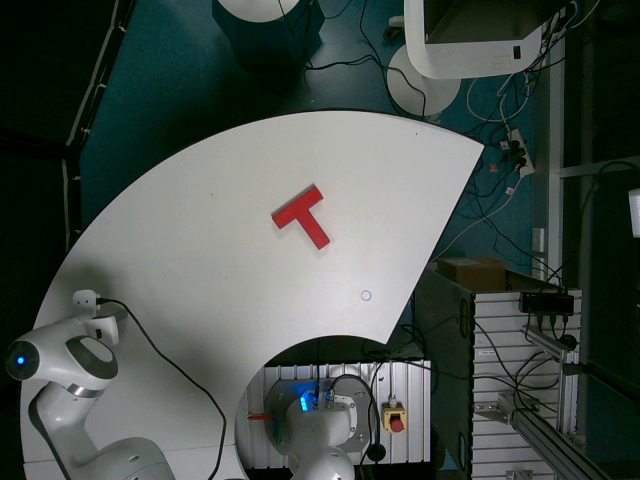
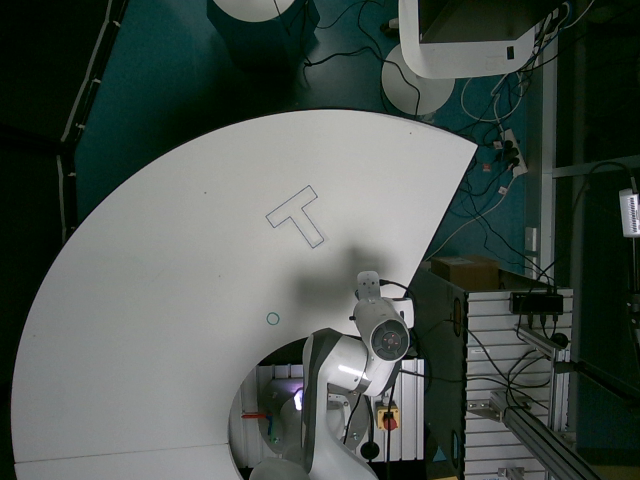
inference working

diff --git a/rs_imle_policy/inference.py b/rs_imle_policy/inference.py
@@ -80,7 +80,8 @@ class RobotInferenceController:
 
 
     def move_to_start(self):
-        self.robot.move(JointMotion([-1.9953644495495173, -0.07019201069593659, 0.051291523464672376, -2.4943418327817803, -0.042134962130810624, 2.385776886145273, 0.35092161391247345]))
+        # self.robot.move(JointMotion([-1.9953644495495173, -0.07019201069593659, 0.051291523464672376, -2.4943418327817803, -0.042134962130810624, 2.385776886145273, 0.35092161391247345]))
+        self.robot.move(JointMotion([-1.4257584505685634, -0.302815655026201, 0.05126683842989545, -2.7415479229025443, 0.011030055865001531, 2.3881221201502796, 0.8777110836404692]))
 
 
     def create_robot(self, ip:str = "172.16.0.2", dynamic_rel: float=0.4): #0.4
@@ -241,8 +242,12 @@ class RobotInferenceController:
 
             print("elapsed time: ", time.time() - start_time)
 
+            # if time.time() - start_time > 120:
+            #     print("Time limit reached")
+            #     break
+
             
-            for i in range(0,len(action)):
+            for i in range(4,len(action)):
                 # keep everyting the same except xy which is the action
                 trans = np.array([action[i][0], action[i][1], height])
                 self.motion.set_next_waypoint(Waypoint(Affine(trans[0], trans[1], height, q[0], q[1], q[2], q[3])))
@@ -256,6 +261,6 @@ if __name__ == '__main__':
     
 
 
-    controller = RobotInferenceController(eval_name='rs_imle_25p_ckpt600_2', idx=3)
+    controller = RobotInferenceController(eval_name='rs_imle_policy_10', idx=0)
     controller.start_inference()
     controller.perception_system.stop()

diff --git a/rs_imle_policy/policy.py b/rs_imle_policy/policy.py
@@ -62,7 +62,7 @@ class Policy:
             self.load_weights(saved_run_name)
 
             # stats_path = os.path.join("/mnt/droplet/", 'stats.pkl')
-            stats_path = os.path.join("saved_weights/diffusion_policy_1.0/", 'stats.pkl')
+            stats_path = os.path.join("saved_weights/rs_imle_10/", 'stats.pkl')
             self.stats = np.load(stats_path, allow_pickle=True)
 
             self.transform = transforms.Compose([
@@ -83,7 +83,7 @@ class Policy:
             # fpath_ema = os.path.join("/mnt/droplet/", "ema_net.pth")
             # fpath_nets = os.path.join("/mnt/droplet/", "net.pth")
 
-            fpath_ema = os.path.join("saved_weights/diffusion_policy_1.0/", "ema_net.pth")
+            fpath_ema = os.path.join("saved_weights/diffusion_policy_10/", "ema_net_epoch_1000.pth")
             # fpath_nets = os.path.join("saved_weights/diffusion_policy_1.0/", "net.pth")
 
 
@@ -100,7 +100,7 @@ class Policy:
 
         elif self.method == 'rs_imle':
             print('Loading pretrained weights for rs_imle')
-            fpath = os.path.join("saved_weights/rs_imle_policy_0.25/", "net_epoch_300.pth")
+            fpath = os.path.join("saved_weights/rs_imle_10/", "net_epoch_1100.pth")
             # fpath = os.path.join("saved_weights/rs_imle_policy_0.25/", "net_epoch_600.pth")
             self.nets.load_state_dict(torch.load(fpath, map_location='cuda'))
 

diff --git a/rs_imle_policy/configs/vision_config.py b/rs_imle_policy/configs/vision_config.py
@@ -1,8 +1,8 @@
 
 dataset_path = 'data/t_block_1'
 
-# method = 'rs_imle'
-method = 'diffusion'
+method = 'rs_imle'
+# method = 'diffusion'
 vision_feature_dim = 512
 lowdim_obs_dim = 2
 obs_dim = (vision_feature_dim*2) + lowdim_obs_dim
